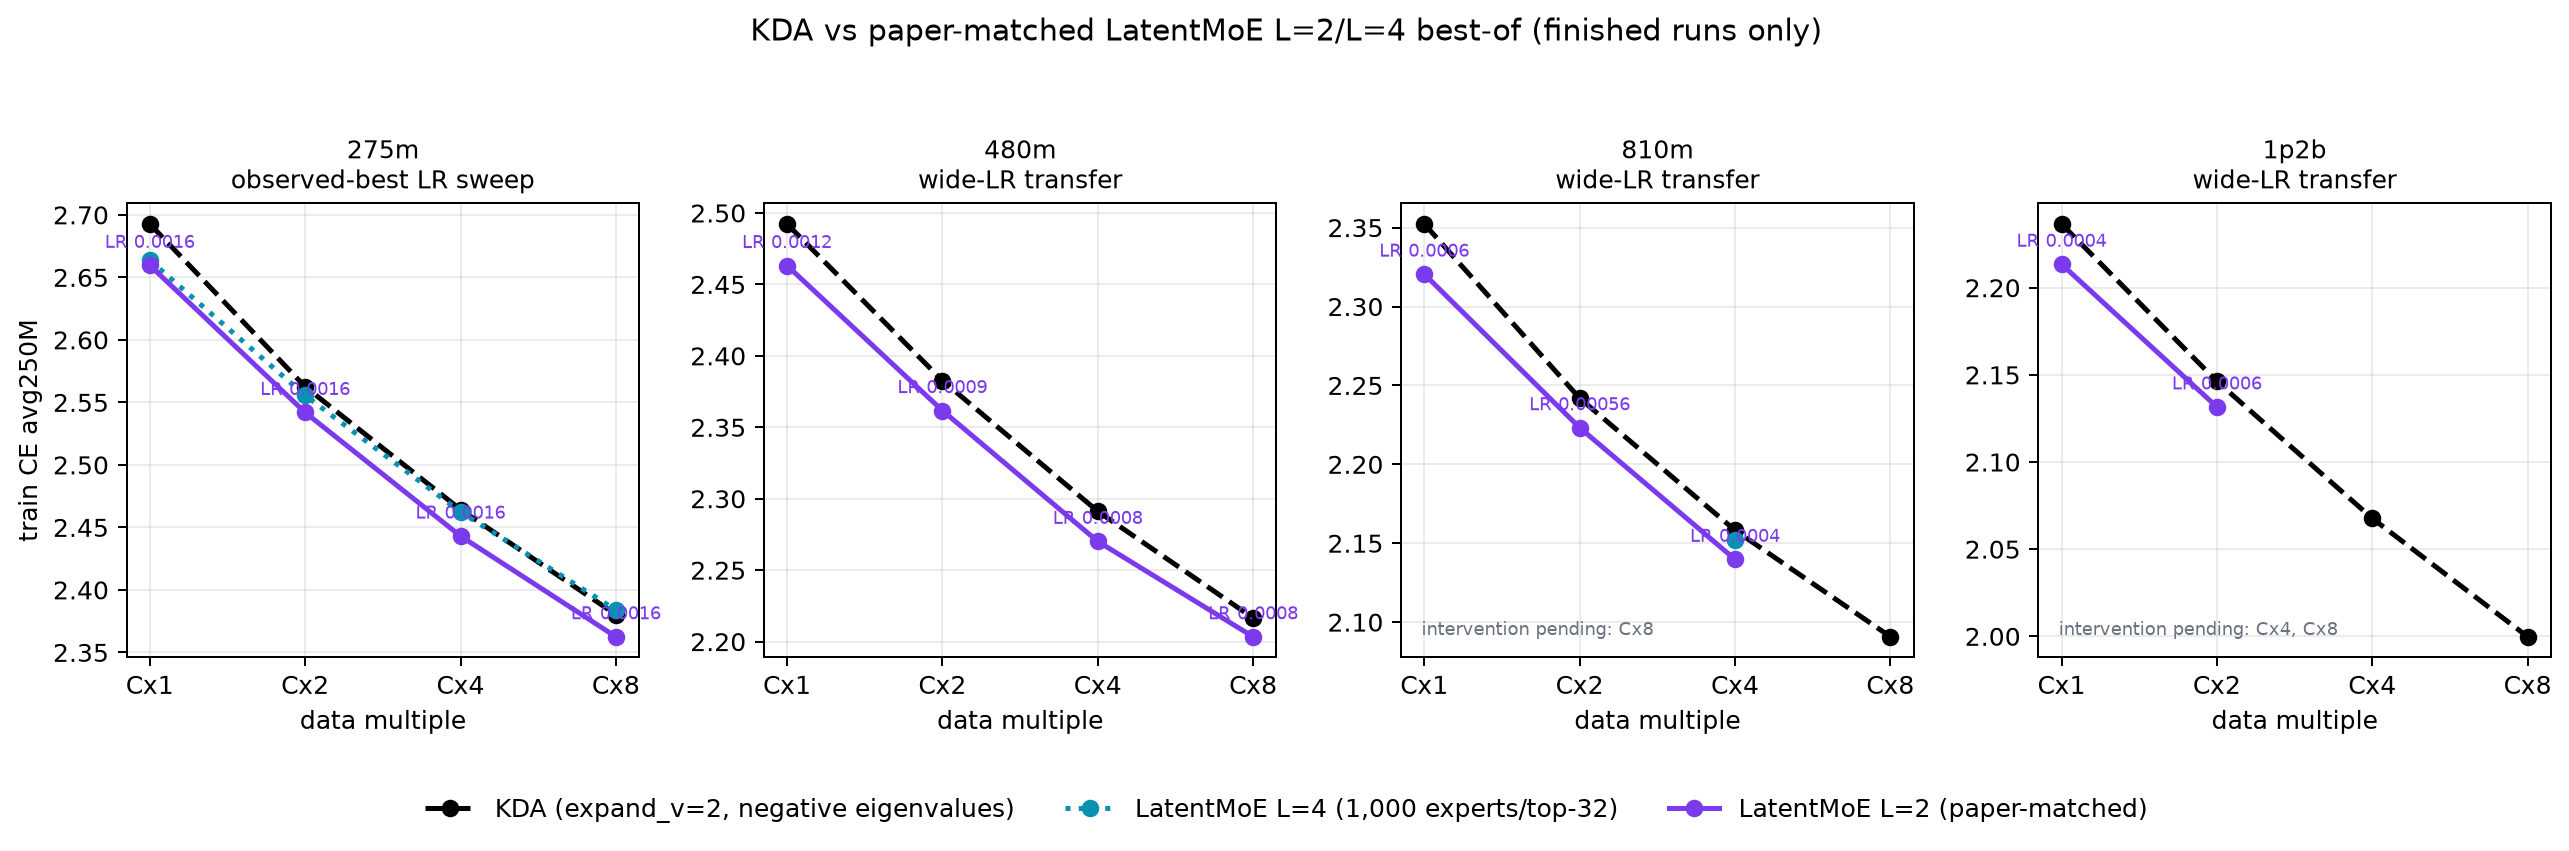
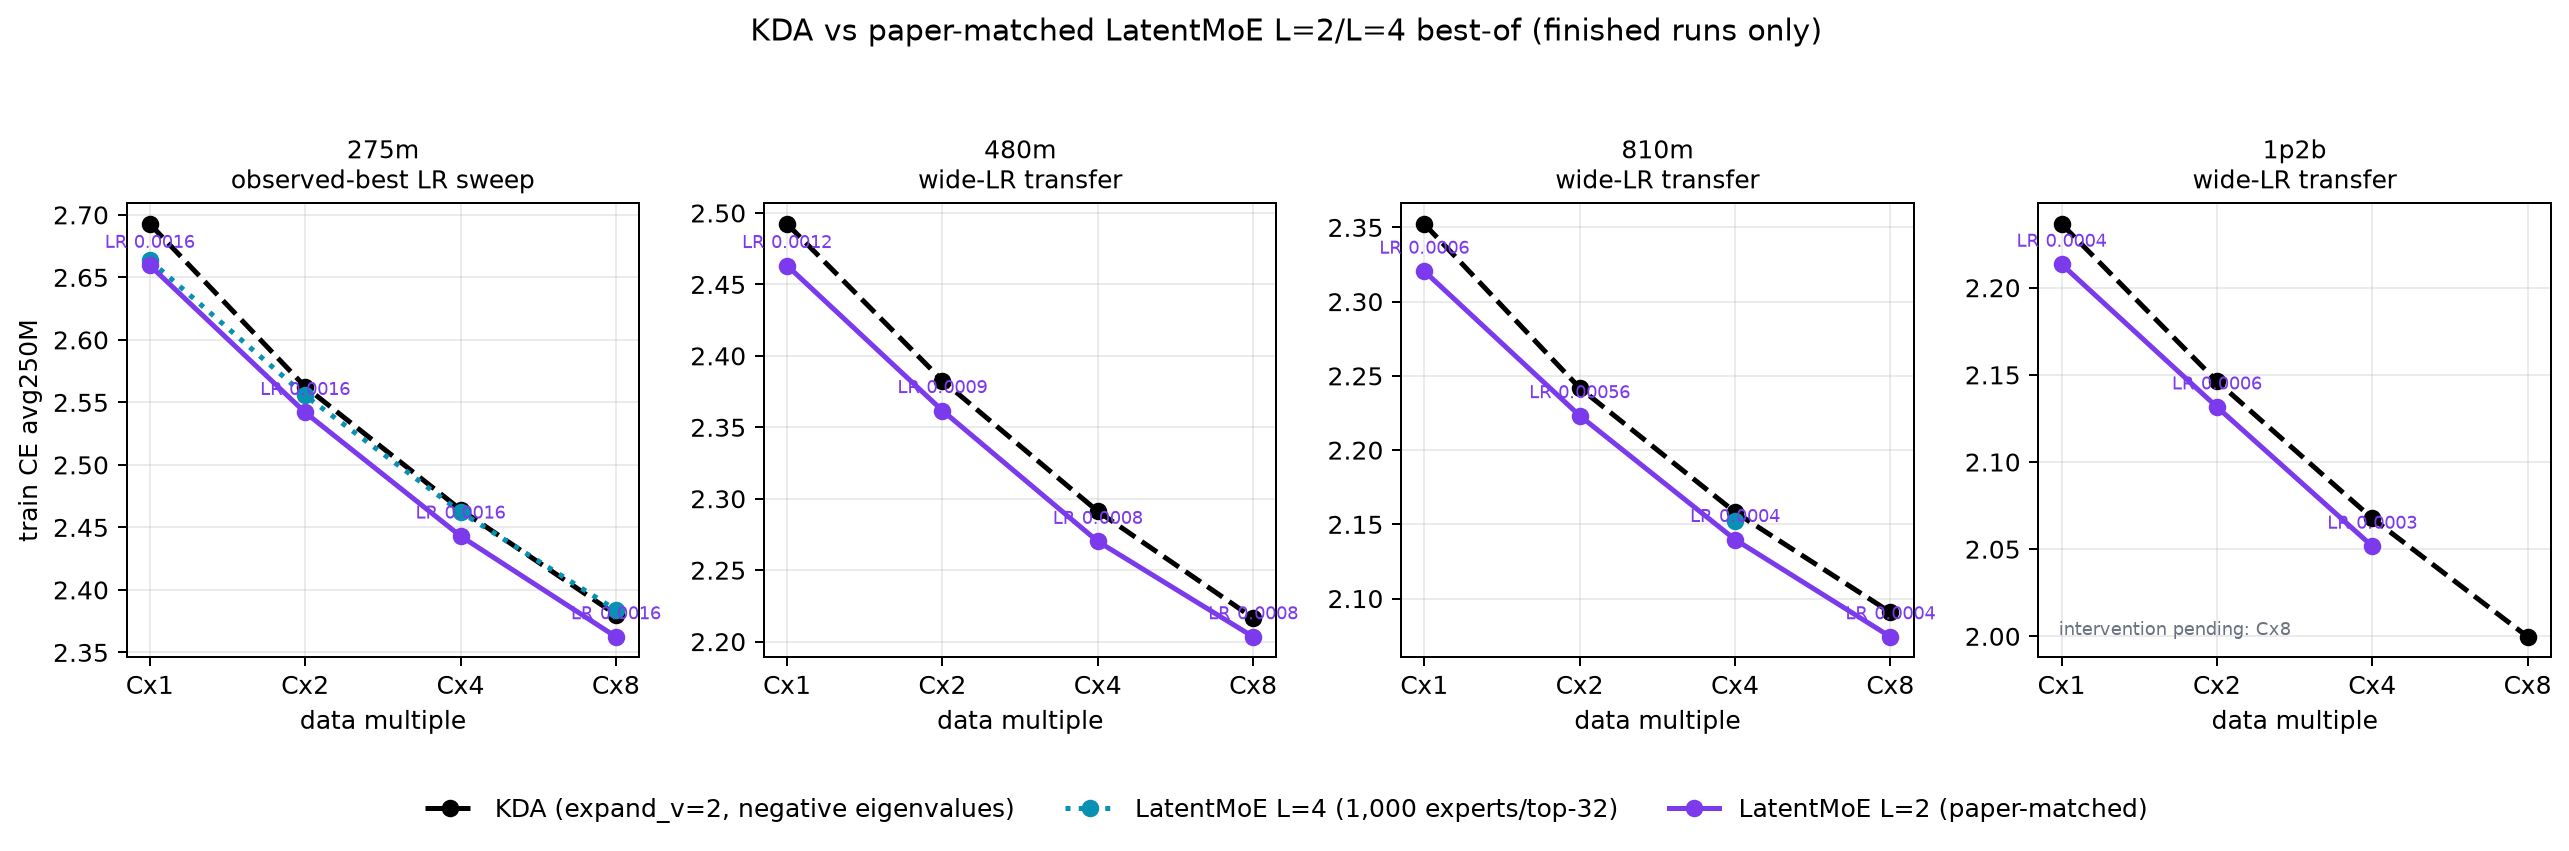
Refresh LatentMoE scale results

diff --git a/src/scripts/train/jacobm_olmoe_ladder/v2/plot_kda_latent_moe.py b/src/scripts/train/jacobm_olmoe_ladder/v2/plot_kda_latent_moe.py
@@ -303,7 +303,9 @@ def write_results(
             )
 
     scale_rows = [
-        asdict(point) for point in points if point.variant == l2.key and point.model != "275m"
+        asdict(point)
+        for point in points
+        if point.variant in {l2.key, l4.key} and point.model != "275m"
     ]
     payload = {
         "generated_at": generated_at,
@@ -359,18 +361,19 @@ def write_results(
             "",
             "## Larger-size transferred-LR results",
             "",
-            "| Model | Cx | LR | Final-250M CE | Tokens | W&B |",
-            "|---|---:|---:|---:|---:|---|",
+            "| Variant | Model | Cx | LR | Final-250M CE | Tokens | W&B |",
+            "|---|---|---:|---:|---:|---:|---|",
         ]
     )
     for row in scale_rows:
+        label = l2.label if row["variant"] == l2.key else l4.label
         lines.append(
-            f"| {row['model']} | Cx{row['cx']} | {row['lr']:.2g} | "
+            f"| {label} | {row['model']} | Cx{row['cx']} | {row['lr']:.2g} | "
             f"{row['loss']:.6f} | {row['tokens_b']:.3f}B | "
             f"[{row['run_id']}]({row['url']}) |"
         )
     if not scale_rows:
-        lines.append("| — | — | — | — | — | no finished scale runs |")
+        lines.append("| — | — | — | — | — | — | no finished scale runs |")
     lines.extend(["", f"Uninitialized planned W&B runs: `{pending}`."])
     md_path.write_text("\n".join(lines) + "\n")
     return json_path, md_path

diff --git a/src/scripts/train/jacobm_olmoe_ladder/v2/RUNS.md b/src/scripts/train/jacobm_olmoe_ladder/v2/RUNS.md
@@ -8,10 +8,9 @@ job IDs and W&B IDs once they exist. Detailed migration-era DDP jobs remain in
 
 Rows are updated as their corresponding collectors run; detailed sections
 retain the full launch and retry history. The canonical GDN2/KDA, new KDA
-transfer, MXFP8, LatentMoE, and validation rows were refreshed at
-2026-07-29 15:49 UTC. Training losses, LatentMoE live statuses, MXFP8/KDA
-comparisons, and the validation registry were refreshed again at
-2026-07-31 21:40 UTC.
+transfer, MXFP8, LatentMoE, validation, and V1 results were fully refreshed at
+2026-08-01 18:49 UTC. Strict final-250M collection remains required; no partial
+or reset-shortened summary was used.
 
 | Stage | Family / cell | State | Progress / result | Current W&B |
 |---|---|---|---|---|
@@ -38,7 +37,7 @@ comparisons, and the validation registry were refreshed again at
 | pretraining | KDA `expand_v=2`, negative-eigenvalue transfer (275M/480M/810M/1.2B) | 16/16 finished | 810M and 1.2B are both 4/4. The final 1.2B Cx1/2/4/8 strict final-250M CEs are `2.236574`, `2.146299`, `2.067653`, and `1.999736`; this KDA family had no failed training attempt. | [results](results/pretraining/canonical_gdn2_kda/kda_ev2_neg_scale_results.md) / [launches](#kda-expand_v2-negative-eigenvalue-transfer) |
 | qualification | LatentMoE PR #799, full-width-router controls, and 275M parameter-matched configs | 1,000-expert EP1 replacement qualified | Paper-matched 2× and exact 4× are 295.664M/296.770M active params. The selected 4× EP1 approximation uses exactly 1,000 experts/top-32 and is 296.632M active / 3.073B stored. Its exact-2-Mi result is 180.0K TPS/GPU and 280.4 TFLOPs/GPU; physical-max MB11 reaches 182.9K/284.9. Both 50-step runs have zero skips. | [plan and results](LATENT_MOE.md) / [capacity](https://beaker.org/orgs/ai2/workspaces/OLMo-3-moe-experiments/work/01KYP96YAGZ4CZCZBT87NHSA5X) / [throughput](https://beaker.org/orgs/ai2/workspaces/OLMo-3-moe-experiments/work/01KYPA1GYA09H78GCVT3PQ1TZH) |
 | pretraining | LatentMoE 275M LR sweeps | 32/32 finished | Every L2/L4 Cx curve is complete and bracketed. Cx8 selects L2 `2.362515 @ 1.6e-3` and L4 `2.383977 @ 8e-4`. | [results](results/pretraining/kda_latent_moe/results.md) / [Cx4 work](https://beaker.org/orgs/ai2/workspaces/OLMo-3-moe-experiments/work/01KYQS79P3JFX4SSB4AM7B8CDK) / [Cx8 work](https://beaker.org/orgs/ai2/workspaces/OLMo-3-moe-experiments/work/01KYQS7J3NBH1TFX6Y1FGQ7WM2) |
-| pretraining | LatentMoE L=2 scale promotion | 9 finished / 3 running | 480M Cx1/2/4/8, 810M Cx1/2/4, and 1.2B Cx1/2 are finished. Newly collected strict final-250M CEs are 480M Cx8 `2.203397`, 810M Cx4 `2.139766`, and 1.2B Cx1/Cx2 `2.213475`/`2.131599`; 810M Cx8 and 1.2B Cx4/Cx8 remain running. | [results](results/pretraining/kda_latent_moe/results.md) / [480M Cx4/Cx8](https://beaker.org/orgs/ai2/workspaces/OLMo-3-moe-experiments/work/01KYRZ44KSS6A9EJ10BKR5H5HE) / [810M](LATENT_MOE.md#proposed-larger-latentmoe-configs) / [1.2B](LATENT_MOE.md#810m-l4-control-and-12b-l2-promotion) |
+| pretraining | LatentMoE L=2 scale promotion | 11 finished / 1 running | 480M and 810M are 4/4; 1.2B Cx1/Cx2/Cx4 are finished and Cx8 is running. Newly collected strict final-250M CEs are 810M Cx8 `2.074273` and 1.2B Cx4 `2.051686`. The 1.2B Cx1/Cx2/Cx4 workers ended in teardown SIGSEGVs only after reaching their complete token budgets; their strict final windows are intact. | [results](results/pretraining/kda_latent_moe/results.md) / [480M Cx4/Cx8](https://beaker.org/orgs/ai2/workspaces/OLMo-3-moe-experiments/work/01KYRZ44KSS6A9EJ10BKR5H5HE) / [810M](LATENT_MOE.md#proposed-larger-latentmoe-configs) / [1.2B](LATENT_MOE.md#810m-l4-control-and-12b-l2-promotion) |
 | pretraining | LatentMoE L=4 1,000e 810M Cx4 control | finished | YOLO transferred-LR control: 16 GPUs, EP1, MB4, LR `4e-4`; strict final-250M CE `2.152349`. | [work](https://beaker.org/orgs/ai2/workspaces/OLMo-3-moe-experiments/work/01KYSWABKPZ9DAVYW2RGH70CAZ) |
 | pretraining | aggressive MXFP8 KDA 275M LR sweep | 16/16 finished | All Cx curves are complete and bracketed. Observed best is `1.6e-3` throughout, with strict final-250M CE `2.685399`, `2.566948`, `2.463998`, and `2.383008` at Cx1/2/4/8. | [results](results/pretraining/kda_mxfp8/results.md) / [work](https://beaker.org/orgs/ai2/workspaces/OLMo-3-moe-experiments/work/01KYJPTZ3J4VHGBH0FSVAQRDGC) |
 | pretraining | aggressive MXFP8 KDA 480M transferred-LR continuation | 1 finished / 3 intentionally canceled | Cx1 finished at strict final-250M CE `2.497288`, `+0.005005` versus matching BF16 KDA; Cx2/Cx4/Cx8 were paused after the matched throughput audit found a 42--62% regression; durable checkpoints retained | [results](results/pretraining/kda_mxfp8/results.md) / [launches](#480m-aggressive-mxfp8-kda-transferred-lr-continuation) |

diff --git a/src/scripts/train/jacobm_olmoe_ladder/v2/results/pretraining/kda_latent_moe/results.md b/src/scripts/train/jacobm_olmoe_ladder/v2/results/pretraining/kda_latent_moe/results.md
@@ -1,6 +1,6 @@
 # KDA LatentMoE paper-matched pretraining
 
-Generated: `2026-07-31T21:39:39.950754+00:00`
+Generated: `2026-08-01T18:57:50.125920+00:00`
 
 Metric: final `250M`-token mean training CE. The best-of plot uses observed finished points only after a curve is bracketed.
 
@@ -17,16 +17,19 @@ Metric: final `250M`-token mean training CE. The best-of plot uses observed fini
 
 ## Larger-size transferred-LR results
 
-| Model | Cx | LR | Final-250M CE | Tokens | W&B |
-|---|---:|---:|---:|---:|---|
-| 480m | Cx1 | 0.0012 | 2.463192 | 8.654B | [meyce8po](https://wandb.ai/ai2-llm/jacobm-olmoe-ladder/runs/meyce8po) |
-| 480m | Cx2 | 0.0009 | 2.361694 | 17.307B | [quugqq1o](https://wandb.ai/ai2-llm/jacobm-olmoe-ladder/runs/quugqq1o) |
-| 480m | Cx4 | 0.0008 | 2.270144 | 34.615B | [feop0y0x](https://wandb.ai/ai2-llm/jacobm-olmoe-ladder/runs/feop0y0x) |
-| 480m | Cx8 | 0.0008 | 2.203397 | 69.230B | [2m4xllen](https://wandb.ai/ai2-llm/jacobm-olmoe-ladder/runs/2m4xllen) |
-| 810m | Cx1 | 0.0006 | 2.320513 | 15.097B | [3pf9w1p5](https://wandb.ai/ai2-llm/jacobm-olmoe-ladder/runs/3pf9w1p5) |
-| 810m | Cx2 | 0.00056 | 2.223199 | 30.193B | [uet3vyje](https://wandb.ai/ai2-llm/jacobm-olmoe-ladder/runs/uet3vyje) |
-| 810m | Cx4 | 0.0004 | 2.139766 | 60.386B | [mao1l8wg](https://wandb.ai/ai2-llm/jacobm-olmoe-ladder/runs/mao1l8wg) |
-| 1p2b | Cx1 | 0.0004 | 2.213475 | 23.208B | [gh7zj1n8](https://wandb.ai/ai2-llm/jacobm-olmoe-ladder/runs/gh7zj1n8) |
-| 1p2b | Cx2 | 0.0006 | 2.131599 | 46.415B | [5n8ngak5](https://wandb.ai/ai2-llm/jacobm-olmoe-ladder/runs/5n8ngak5) |
+| Variant | Model | Cx | LR | Final-250M CE | Tokens | W&B |
+|---|---|---:|---:|---:|---:|---|
+| LatentMoE L=2 (paper-matched) | 480m | Cx1 | 0.0012 | 2.463192 | 8.654B | [meyce8po](https://wandb.ai/ai2-llm/jacobm-olmoe-ladder/runs/meyce8po) |
+| LatentMoE L=2 (paper-matched) | 480m | Cx2 | 0.0009 | 2.361694 | 17.307B | [quugqq1o](https://wandb.ai/ai2-llm/jacobm-olmoe-ladder/runs/quugqq1o) |
+| LatentMoE L=2 (paper-matched) | 480m | Cx4 | 0.0008 | 2.270144 | 34.615B | [feop0y0x](https://wandb.ai/ai2-llm/jacobm-olmoe-ladder/runs/feop0y0x) |
+| LatentMoE L=2 (paper-matched) | 480m | Cx8 | 0.0008 | 2.203397 | 69.230B | [2m4xllen](https://wandb.ai/ai2-llm/jacobm-olmoe-ladder/runs/2m4xllen) |
+| LatentMoE L=2 (paper-matched) | 810m | Cx1 | 0.0006 | 2.320513 | 15.097B | [3pf9w1p5](https://wandb.ai/ai2-llm/jacobm-olmoe-ladder/runs/3pf9w1p5) |
+| LatentMoE L=2 (paper-matched) | 810m | Cx2 | 0.00056 | 2.223199 | 30.193B | [uet3vyje](https://wandb.ai/ai2-llm/jacobm-olmoe-ladder/runs/uet3vyje) |
+| LatentMoE L=2 (paper-matched) | 810m | Cx4 | 0.0004 | 2.139766 | 60.386B | [mao1l8wg](https://wandb.ai/ai2-llm/jacobm-olmoe-ladder/runs/mao1l8wg) |
+| LatentMoE L=4 (1,000 experts/top-32) | 810m | Cx4 | 0.0004 | 2.152349 | 60.359B | [1fv6x7z0](https://wandb.ai/ai2-llm/jacobm-olmoe-ladder/runs/1fv6x7z0) |
+| LatentMoE L=2 (paper-matched) | 810m | Cx8 | 0.0004 | 2.074273 | 120.773B | [cxwvqg3r](https://wandb.ai/ai2-llm/jacobm-olmoe-ladder/runs/cxwvqg3r) |
+| LatentMoE L=2 (paper-matched) | 1p2b | Cx1 | 0.0004 | 2.213475 | 23.208B | [gh7zj1n8](https://wandb.ai/ai2-llm/jacobm-olmoe-ladder/runs/gh7zj1n8) |
+| LatentMoE L=2 (paper-matched) | 1p2b | Cx2 | 0.0006 | 2.131599 | 46.415B | [5n8ngak5](https://wandb.ai/ai2-llm/jacobm-olmoe-ladder/runs/5n8ngak5) |
+| LatentMoE L=2 (paper-matched) | 1p2b | Cx4 | 0.0003 | 2.051686 | 92.830B | [upmkyxzv](https://wandb.ai/ai2-llm/jacobm-olmoe-ladder/runs/upmkyxzv) |
 
 Uninitialized planned W&B runs: `0`.

diff --git a/src/scripts/train/jacobm_olmoe_ladder/v2/LATENT_MOE.md b/src/scripts/train/jacobm_olmoe_ladder/v2/LATENT_MOE.md
@@ -323,9 +323,13 @@ its non-latent KDA parent. The 810M Cx1 run has now finished cleanly as well:
 its strict final-250M CE is `2.320513`, versus `2.352304` for the non-latent
 KDA parent. The 810M Cx2 run subsequently finished at `2.223199`, versus
 `2.241873` for its KDA parent. The 480M Cx4 run then finished at `2.270144`,
-versus `2.291179` for its KDA parent. At the 2026-07-31 02:33 UTC audit, the
-remaining 480M Cx8 and 810M Cx4/Cx8 cells were running, as were all four 1.2B
-cells. These scale results flow into
+versus `2.291179` for its KDA parent. The 480M Cx8, 810M Cx4, and 810M Cx8
+cells have since finished at `2.203397`, `2.139766`, and `2.074273`,
+respectively. At the 2026-08-01 18:49 UTC audit, 1.2B Cx1/Cx2/Cx4 are also
+complete at `2.213475`, `2.131599`, and `2.051686`; only 1.2B Cx8 remains
+running. The Cx1/Cx2/Cx4 Beaker workers reported teardown SIGSEGVs only after
+their complete token budgets and strict final-250M histories were recorded.
+These scale results flow into
 [`plot_kda_latent_moe.py`](plot_kda_latent_moe.py) and the shared best-of plot.
 
 ## Proposed larger LatentMoE configs
@@ -405,6 +409,10 @@ batch, and transferred LR `4e-4`. Its guarded counts are 857,245,632 active
 and 11,598,235,584 stored parameters.
 
 - [810M L=4/1,000e Cx4](https://beaker.org/orgs/ai2/workspaces/OLMo-3-moe-experiments/work/01KYSWABKPZ9DAVYW2RGH70CAZ)
+
+The one-off control finished with strict final-250M CE `2.152349` at 60.359B
+tokens. It remains a separately labeled L=4 point in both the shared best-of
+plot and the generated larger-size results table.
 
 The 1.2B L=2 model has 512 routed experts/top-16, 1,288,818,432 active
 parameters, and 18,514,382,592 stored parameters. It reuses the balanced

diff --git a/src/scripts/train/jacobm_olmoe_ladder/v2/results/pretraining/geometry_gdn_ev2_nope_gated/results.md b/src/scripts/train/jacobm_olmoe_ladder/v2/results/pretraining/geometry_gdn_ev2_nope_gated/results.md
@@ -1,6 +1,6 @@
 # Geometry-matched NoPE gated-attention active hybrid GDN intervention
 
-Generated: `2026-07-31T21:34:44.348538+00:00`
+Generated: `2026-08-01T18:44:27.128950+00:00`
 
 Selection metric: final `250M`-token mean training CE. Only finished runs are eligible.
 The optimal-LR summary includes only bracketed 275M sweeps with a valid quadratic fit.

diff --git a/src/scripts/train/jacobm_olmoe_ladder/v2/results/pretraining/geometry_gdn_ev2_rope_gated/results.md b/src/scripts/train/jacobm_olmoe_ladder/v2/results/pretraining/geometry_gdn_ev2_rope_gated/results.md
@@ -1,6 +1,6 @@
 # Geometry-matched RoPE gated-attention active hybrid GDN intervention
 
-Generated: `2026-07-31T21:35:33.998341+00:00`
+Generated: `2026-08-01T18:45:19.373096+00:00`
 
 Selection metric: final `250M`-token mean training CE. Only finished runs are eligible.
 The optimal-LR summary includes only bracketed 275M sweeps with a valid quadratic fit.

diff --git a/src/scripts/train/jacobm_olmoe_ladder/v2/results/pretraining/geometry_gdn2_ev2_nope_gated/results.md b/src/scripts/train/jacobm_olmoe_ladder/v2/results/pretraining/geometry_gdn2_ev2_nope_gated/results.md
@@ -1,6 +1,6 @@
 # Geometry-matched NoPE gated-attention GDN2 intervention
 
-Generated: `2026-07-31T21:36:01.480579+00:00`
+Generated: `2026-08-01T18:45:43.507044+00:00`
 
 Selection metric: final `250M`-token mean training CE. Only finished runs are eligible.
 The optimal-LR summary includes only bracketed 275M sweeps with a valid quadratic fit.

diff --git a/src/scripts/train/jacobm_olmoe_ladder/v2/results/pretraining/canonical_gdn2_kda/kda_ev2_neg_scale_results.md b/src/scripts/train/jacobm_olmoe_ladder/v2/results/pretraining/canonical_gdn2_kda/kda_ev2_neg_scale_results.md
@@ -1,6 +1,6 @@
 # KDA expand_v=2 negative-eigenvalue fixed-LR transfer
 
-Generated: `2026-07-31T21:38:49.672065+00:00`
+Generated: `2026-08-01T18:48:16.087806+00:00`
 
 Selection metric: final `250M`-token mean training CE. Only finished runs are eligible.
 The optimal-LR summary includes only bracketed 275M sweeps with a valid quadratic fit.

diff --git a/src/scripts/train/jacobm_olmoe_ladder/v2/results/pretraining/geometry_gdn_ev2_nope/results.md b/src/scripts/train/jacobm_olmoe_ladder/v2/results/pretraining/geometry_gdn_ev2_nope/results.md
@@ -1,6 +1,6 @@
 # Geometry-matched NoPE active hybrid GDN intervention
 
-Generated: `2026-07-31T21:33:59.769874+00:00`
+Generated: `2026-08-01T18:43:44.638714+00:00`
 
 Selection metric: final `250M`-token mean training CE. Only finished runs are eligible.
 The optimal-LR summary includes only bracketed 275M sweeps with a valid quadratic fit.

diff --git a/src/scripts/train/jacobm_olmoe_ladder/v2/results/pretraining/canonical_gdn2_kda/scale_results.md b/src/scripts/train/jacobm_olmoe_ladder/v2/results/pretraining/canonical_gdn2_kda/scale_results.md
@@ -1,6 +1,6 @@
 # Canonical GDN2 and KDA fixed-LR scale comparison
 
-Generated: `2026-07-31T21:38:49.659412+00:00`
+Generated: `2026-08-01T18:48:16.075870+00:00`
 
 Selection metric: final `250M`-token mean training CE. Only finished runs are eligible.
 The optimal-LR summary includes only bracketed 275M sweeps with a valid quadratic fit.

diff --git a/src/scripts/train/jacobm_olmoe_ladder/v2/results/pretraining/geometry_gdn_ev2/results.md b/src/scripts/train/jacobm_olmoe_ladder/v2/results/pretraining/geometry_gdn_ev2/results.md
@@ -1,6 +1,6 @@
 # Geometry-matched active hybrid GDN intervention
 
-Generated: `2026-07-31T21:33:25.355702+00:00`
+Generated: `2026-08-01T18:43:09.455119+00:00`
 
 Selection metric: final `250M`-token mean training CE. Only finished runs are eligible.
 The optimal-LR summary includes only bracketed 275M sweeps with a valid quadratic fit.

diff --git a/src/scripts/train/jacobm_olmoe_ladder/v2/results/pretraining/canonical_gdn2_kda/our_settings_best_of_results.md b/src/scripts/train/jacobm_olmoe_ladder/v2/results/pretraining/canonical_gdn2_kda/our_settings_best_of_results.md
@@ -1,6 +1,6 @@
 # GDN1 vs GDN2 vs KDA — our settings
 
-Generated: `2026-07-31T21:38:49.686125+00:00`
+Generated: `2026-08-01T18:48:16.106133+00:00`
 
 Selection metric: final `250M`-token mean training CE. Only finished runs are eligible.
 The optimal-LR summary includes only bracketed 275M sweeps with a valid quadratic fit.
